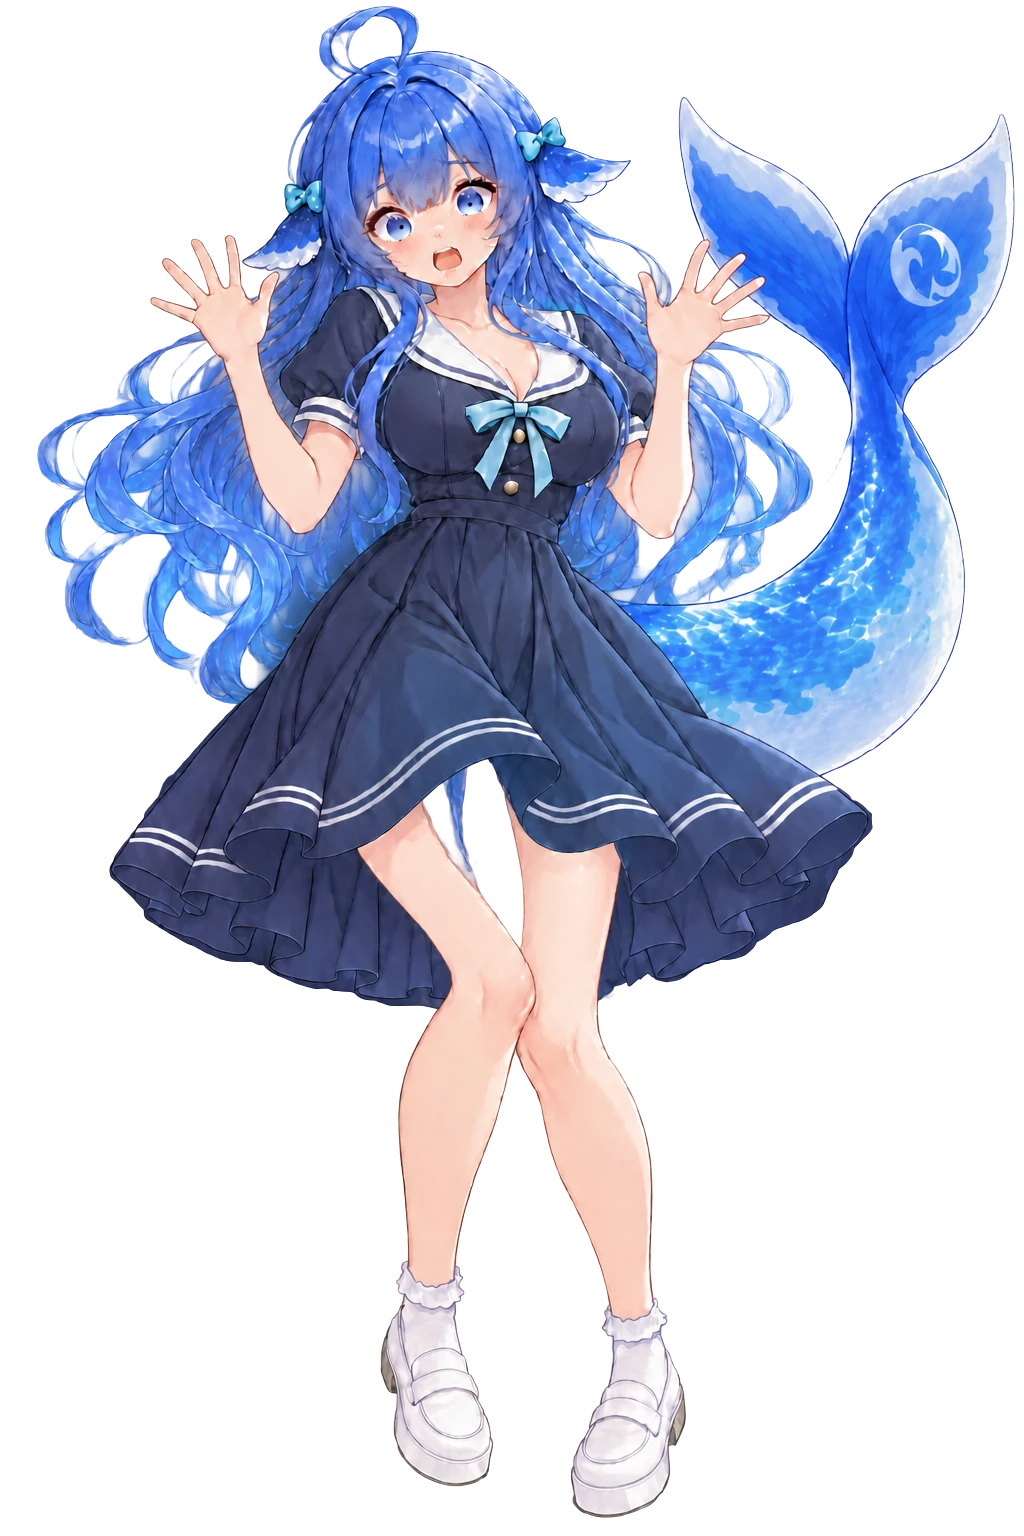
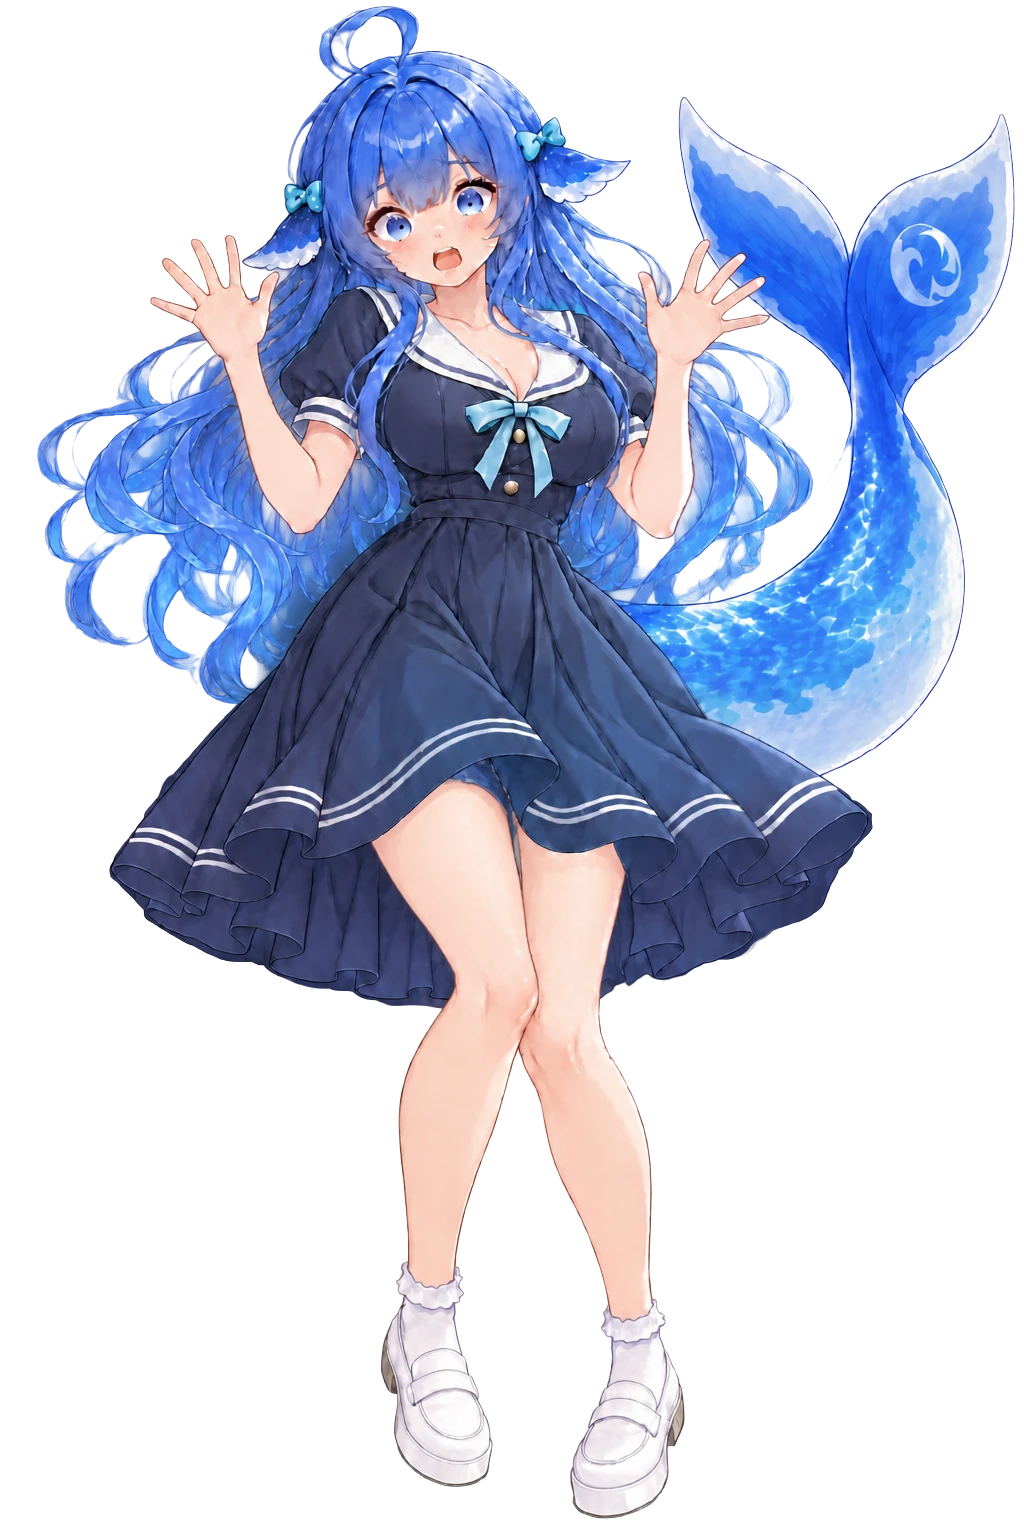
art: L06 腿部重画（膝盖、大腿衔接），头发尾巴不变

diff --git a/docs/collab/work-ledger/playtest-ledger-20261018.md b/docs/collab/work-ledger/playtest-ledger-20261018.md
@@ -65,3 +65,4 @@
 - 用户：发丝之间的蓝色不该有，应由 Image2.5 直接出透明底。查明：浅蓝是白底生成时模型自己画进发卷之间的，不是抠图残留。
 - L06 改为 Image2.5 直接透明底生成（发丝间真实镂空），首版尾巴跑到腿间，再做一次透明底编辑去掉；尾巴形状位置与上一版一致（用户认可此图尾巴，作为其它图的尾巴基准）。
 - 立绘流程改为：Image2.5 background=transparent 直出 → 轻度去薄雾（alpha<16% 清零），不再白底+rembg。
+- 10:56 用户：新 L06 腿不对（膝盖拧在一起、右大腿接错、腿间夹一缕蓝）。以旧版腿为参照透明底重画，只把裙下腿部区域羽化合成回来，头发镂空与尾巴保持不变。
